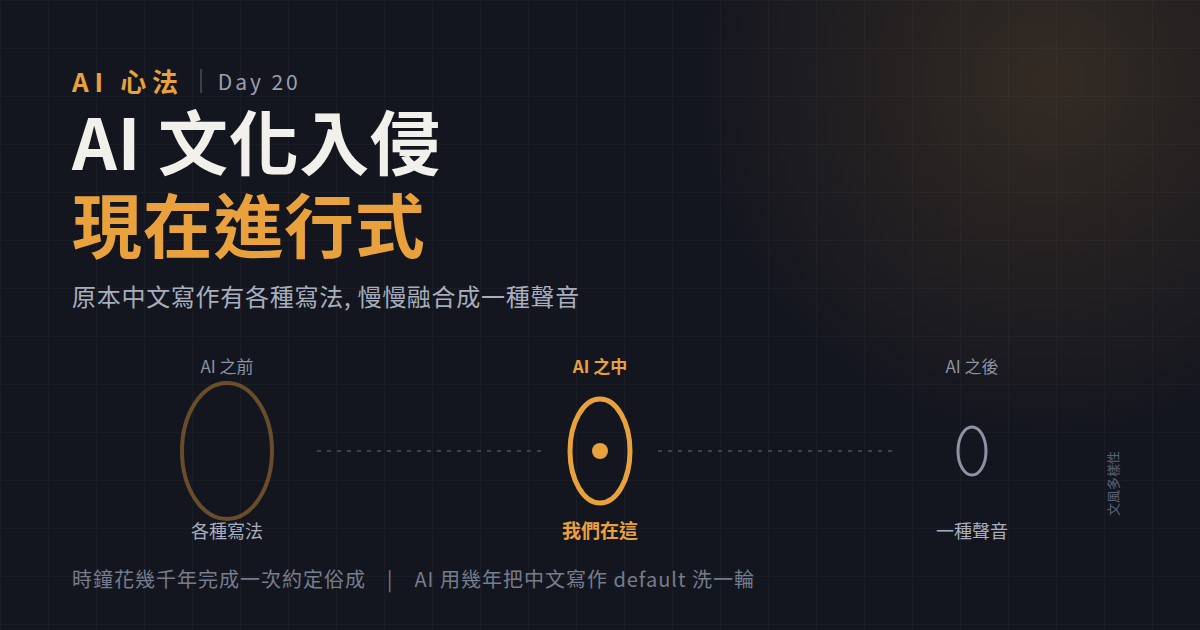
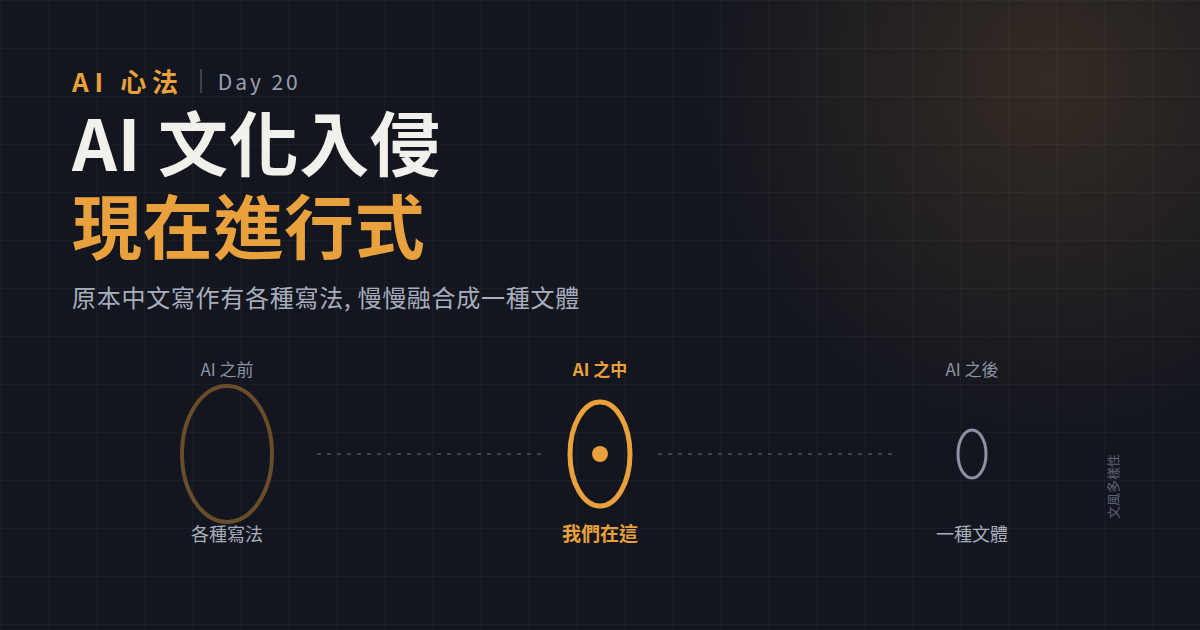
Day 20 cover: 一種聲音 → 一種文體 + 拿掉 foot
- 「一種聲音」兩處 (sub 跟 AI 之後 label) 都換成「一種文體」
- Foot 內容清空 (保留 div 不破壞 flex 布局)

diff --git a/05-notes/ironman/assets/cover-day20.html b/05-notes/ironman/assets/cover-day20.html
@@ -25,7 +25,7 @@ text{font-family:"Noto Sans CJK TC",sans-serif}
   <div class="top"><span class="mark">AI 心法</span><span class="bar"></span><span class="day">Day 20</span></div>
   <div>
     <h1>AI 文化入侵<br><em>現在進行式</em></h1>
-    <div class="sub">原本中文寫作有各種寫法, 慢慢融合成一種聲音</div>
+    <div class="sub">原本中文寫作有各種寫法, 慢慢融合成一種文體</div>
   </div>
   <div class="chartwrap">
   <div class="axis"></div>
@@ -48,11 +48,11 @@ text{font-family:"Noto Sans CJK TC",sans-serif}
     <!-- Phase 3: AI 之後 (小橢圓, 淡色) -->
     <text x="900" y="20" fill="#8b93a5" font-size="17" text-anchor="middle">AI 之後</text>
     <ellipse cx="900" cy="98" rx="14" ry="24" fill="none" stroke="#8b93a5" stroke-width="3"/>
-    <text x="900" y="185" fill="#a8aebd" font-size="18" text-anchor="middle">一種聲音</text>
+    <text x="900" y="185" fill="#a8aebd" font-size="18" text-anchor="middle">一種文體</text>
 
     <!-- 右側說明 (縱軸意義) -->
     <text x="1046" y="98" fill="#5a6275" font-size="13" text-anchor="end" transform="rotate(-90 1046 98)">文風多樣性</text>
   </svg>
   </div>
-  <div class="foot">時鐘花幾千年完成一次約定俗成　|　AI 用幾年把中文寫作 default 洗一輪</div>
+  <div class="foot"></div>
 </div></body></html>
